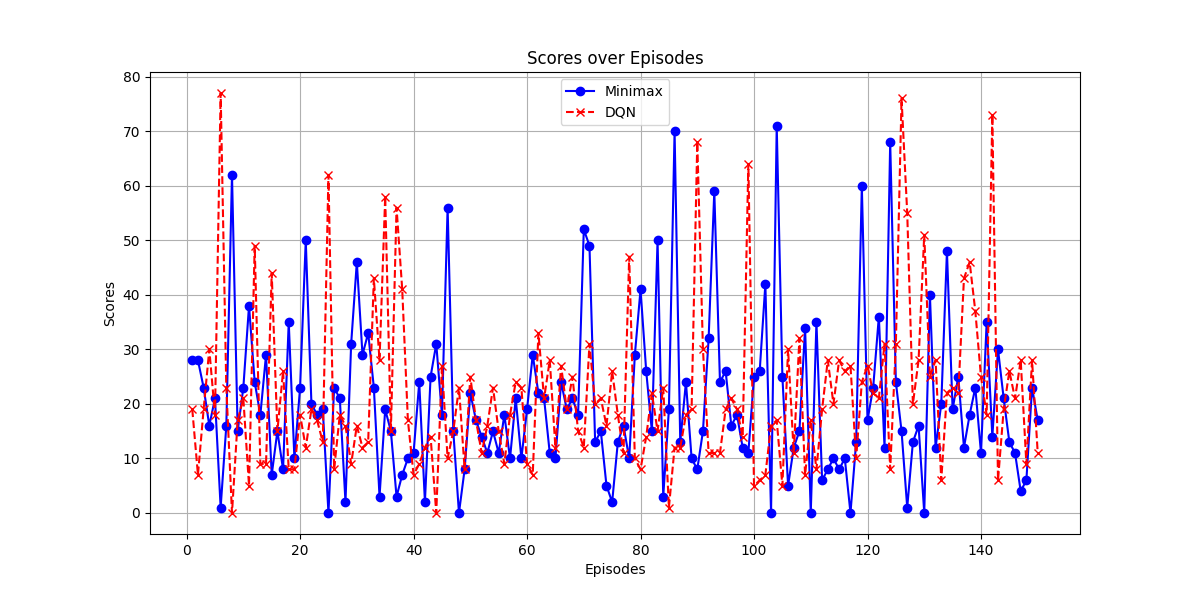
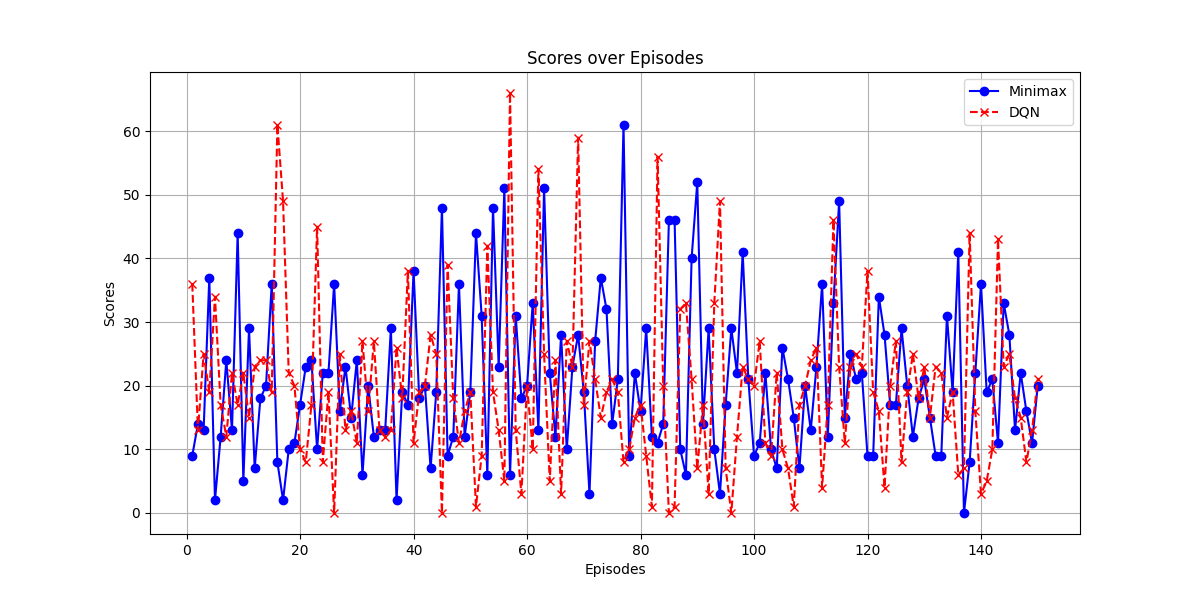
change

diff --git a/RL Project.py b/RL Project.py
@@ -5,6 +5,7 @@ import torch.nn as nn
 import torch.optim as optim
 from collections import deque
 import matplotlib.pyplot as plt
+from IPython.display import clear_output
 
 # Game Environment
 class RPSGameEnv:
@@ -60,10 +61,6 @@ class RPSGameEnv:
         else:
             return 2
 
-    def render(self):
-        print(f"History: {self.history}")
-        print(f"Scores: {self.scores}")
-        print(f"Streaks: {self.streaks}")
 
 # Minimax Agent
 class MinimaxAgent:
@@ -97,108 +94,74 @@ class MinimaxAgent:
 
         return best_action
 
-# DQN Agent
-class DQNAgent:
-    def __init__(self, state_size, action_size):
-        self.state_size = state_size
-        self.action_size = action_size
-        self.memory = deque(maxlen=2000)
-        self.gamma = 0.95
-        self.epsilon = 1.0  # Exploration rate
-        self.epsilon_decay = 0.995
-        self.epsilon_min = 0.01
-        self.learning_rate = 0.001
-        self.model = self._build_model()
 
-    def _build_model(self):
-        return nn.Sequential(
-            nn.Linear(self.state_size, 24),
-            nn.ReLU(),
-            nn.Linear(24, 24),
-            nn.ReLU(),
-            nn.Linear(24, self.action_size),
-        )
+# Visualization Function
+import random
+import numpy as np
+import matplotlib.pyplot as plt
 
-    def remember(self, state, action, reward, next_state, done):
-        self.memory.append((state, action, reward, next_state, done))
-
-    def act(self, state):
-        if np.random.rand() <= self.epsilon:
-            return random.randrange(self.action_size)
-        state_tensor = torch.FloatTensor(state).unsqueeze(0)
-        act_values = self.model(state_tensor)
-        return torch.argmax(act_values[0]).item()
-
-    def replay(self, batch_size):
-        if len(self.memory) < batch_size:
-            return
-
-        minibatch = random.sample(self.memory, batch_size)
-        optimizer = optim.Adam(self.model.parameters(), lr=self.learning_rate)
-        criterion = nn.MSELoss()
-
-        for state, action, reward, next_state, done in minibatch:
-            target = reward
-            if not done:
-                next_state_tensor = torch.FloatTensor(next_state).unsqueeze(0)
-                target = reward + self.gamma * torch.max(self.model(next_state_tensor)[0]).item()
-
-            state_tensor = torch.FloatTensor(state).unsqueeze(0)
-            target_f = self.model(state_tensor).detach().clone()
-            target_f[0][action] = target
-
-            optimizer.zero_grad()
-            output = self.model(state_tensor)
-            loss = criterion(output, target_f)
-            loss.backward()
-            optimizer.step()
-
-        if self.epsilon > self.epsilon_min:
-            self.epsilon *= self.epsilon_decay
-
-# Visualization
-def visualize_results(episodes, minimax_scores, dqn_scores):
-    plt.figure(figsize=(12, 6))
-    plt.plot(episodes, minimax_scores, label='Minimax', marker='o', linestyle='-', color='b')
-    plt.plot(episodes, dqn_scores, label='DQN', marker='x', linestyle='--', color='r')
-    plt.title('Scores over Episodes')
-    plt.xlabel('Episodes')
-    plt.ylabel('Scores')
-    plt.legend()
+# Visualization Function
+def visualize_live(episodes, minimax_scores, dqn_scores, minimax_wins, dqn_wins):
+    plt.clf()
+    plt.plot(episodes, minimax_scores, label="Minimax Agent", color="blue")
+    plt.plot(episodes, dqn_scores, label="DQN Agent", color="red")
+    plt.title("Scores Over Time")
+    plt.xlabel("Episodes")
+    plt.ylabel("Scores")
+    plt.legend(loc="upper left")
     plt.grid(True)
-    plt.savefig("line_plot_scores.png")
-    plt.show()
 
-# Training and Evaluation
+    # Annotate winner info at the top
+    plt.text(0.5, 0.95, 
+             f"Minimax Wins: {minimax_wins} | DQN Wins: {dqn_wins}", 
+             ha="center", va="center", transform=plt.gca().transAxes, 
+             fontsize=12, color="green")
+    plt.pause(0.01)  # Pause for updates
+
+
+# Main Loop
 if __name__ == "__main__":
     env = RPSGameEnv()
     minimax_agent = MinimaxAgent(env.actions)
-    dqn_agent = DQNAgent(state_size=5, action_size=3)  # State size is history length
 
     episodes = 150
-    batch_size = 32
     minimax_scores = []
     dqn_scores = []
 
+    minimax_wins = 0
+    dqn_wins = 0
+
+    plt.ion()  # Turn on interactive mode for live updates
+    plt.figure(figsize=(10, 5))
+
     for episode in range(episodes):
         state = env.reset()
-        total_rewards = [0, 0]
+        minimax_total = 0
+        dqn_total = 0
 
-        for _ in range(10):  # 10 rounds per game
+        for _ in range(10):  # 10 rounds per episode
             action1 = minimax_agent.choose_action(state['history'])
-            action2 = dqn_agent.act([0] * 5)  # Placeholder for state
-            next_state, scores = env.step(action1, env.actions[action2])
+            action2 = random.choice(env.actions)  # Random choice for simplicity
+            next_state, scores = env.step(action1, action2)
 
-            reward = scores[1] - scores[0]  # Reward for Player 2 (DQN)
-            dqn_agent.remember([0] * 5, action2, reward, [0] * 5, False)
-            total_rewards[0] += scores[0]
-            total_rewards[1] += scores[1]
+            minimax_total += scores[0]
+            dqn_total += scores[1]
 
-            if len(dqn_agent.memory) > batch_size:
-                dqn_agent.replay(batch_size)
+        minimax_scores.append(minimax_total)
+        dqn_scores.append(dqn_total)
 
-        minimax_scores.append(total_rewards[0])
-        dqn_scores.append(total_rewards[1])
-        print(f"Episode {episode + 1}: Scores - Minimax: {total_rewards[0]}, DQN: {total_rewards[1]}")
+        # Update wins count
+        if minimax_total > dqn_total:
+            minimax_wins += 1
+        elif dqn_total > minimax_total:
+            dqn_wins += 1
 
-    visualize_results(range(1, episodes + 1), minimax_scores, dqn_scores)
+        visualize_live(range(1, len(minimax_scores) + 1), minimax_scores, dqn_scores, minimax_wins, dqn_wins)
+        print(f"Episode {episode + 1}: Minimax = {minimax_total}, DQN = {dqn_total}")
+
+    # Finalize and Show
+    plt.ioff()
+    plt.show()
+
+    print(f"Final Results: Minimax Wins = {minimax_wins}, DQN Wins = {dqn_wins}")
+
